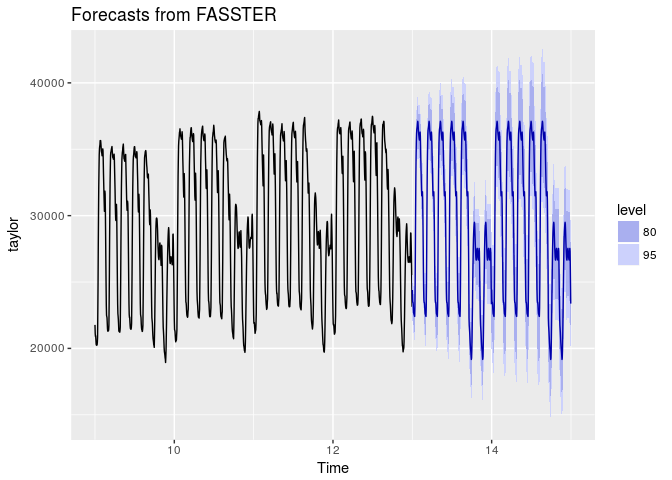
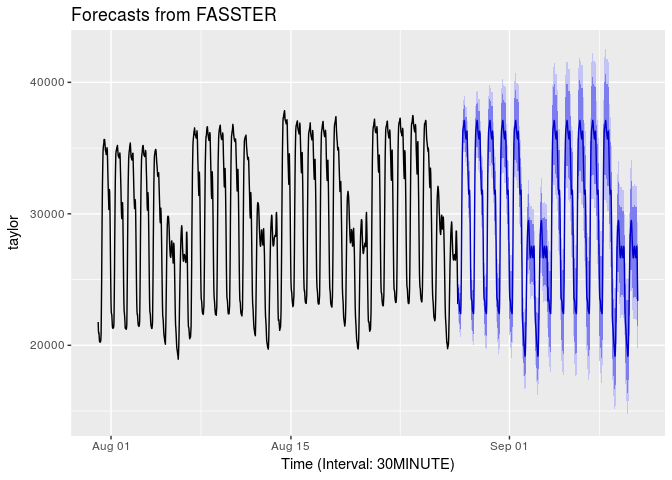
Updated README

diff --git a/README.md b/README.md
@@ -57,20 +57,36 @@ fit %>% ggfitted
 ``` r
 library(forecast)
 fit %>% accuracy
+#>                     ME     RMSE      MAE        MPE     MAPE      MASE
+#> Training set -23.10502 257.6256 190.2418 -0.3173936 2.204005 0.2956716
+#>                   ACF1
+#> Training set 0.1697722
 
 fit %>% 
-  forecast %>%
+  forecast(h=24) %>%
   autoplot
 ```
+
+![](man/figure/forecast-1.png)
 
 The tools made available by *fasster* are designed to integrate seamlessly with the tidyverse of packages, enabling familiar data manipulation and visualisation capabilities.
 
 The interface for creating a FASSTER model introduces a new formula construct, `%S%`, known as the switch operator. This allows modelling of more complex patterns such as multiple seasonality by modelling the components for each group seperately and switching between them.
 
 ``` r
+library(tsibble)
+#> 
+#> Attaching package: 'tsibble'
+#> The following objects are masked from 'package:lubridate':
+#> 
+#>     interval, year
+#> The following object is masked from 'package:stats':
+#> 
+#>     filter
 fit <- tibble(taylor) %>%
   mutate(DateTime = seq(ymd_h("2000-6-5 00"), by="30 mins", length.out=length(taylor)),
          DayType = ifelse(wday(DateTime) %in% 2:6, "Weekday", "Weekend")) %>% 
+  as_tsibble(index = DateTime) %>% 
   fasster(taylor ~ DayType %S% (poly(1) + trig(48, 10))) 
 fit %>%
   ggfitted
@@ -87,3 +103,5 @@ fit %>%
                     mutate(DayType = ifelse(wday(DateTime) %in% 2:6, "Weekday", "Weekend"))) %>% 
   autoplot(include = 48*7*4)
 ```
+
+![](man/figure/complex_fc-1.png)
